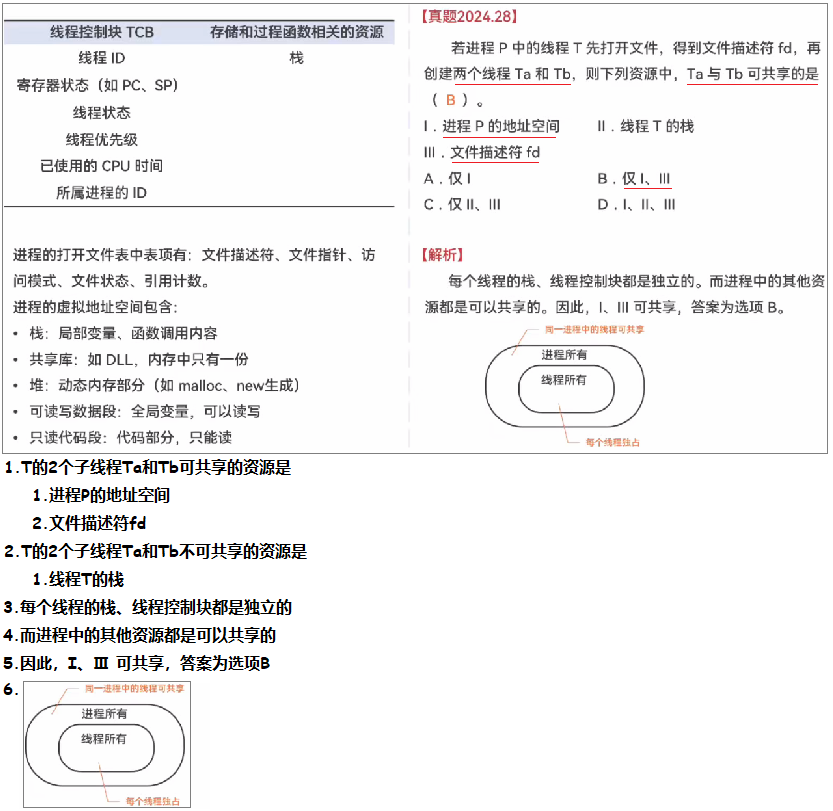
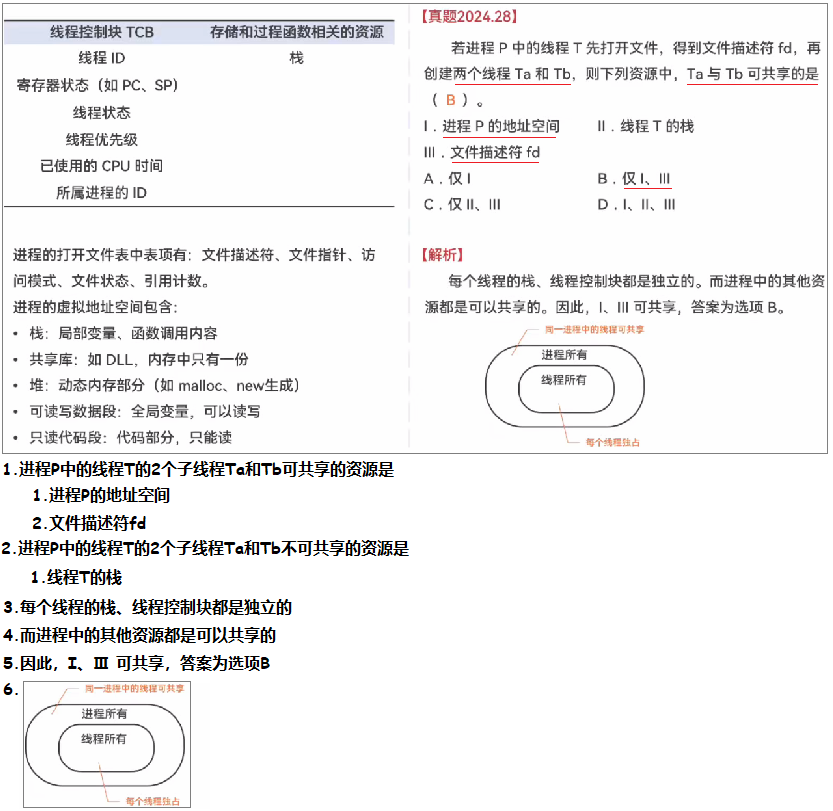
251213 D4 S

Changed region(s): [[0.0, 0.6473, 0.4994, 0.7398], [0.0, 0.5549, 0.4682, 0.5857]]

diff --git a/01 初试/01 408真题/01 24408 130‘ = 60‘+70’/01 单项选择题 60' = 22‘ + 18' + 20‘/03 操作系统 20' = 2' × 10/02 ×/08 单选 28 2‘ 线程 可共享/01 251213 D4/02 Doc.md b/01 初试/01 408真题/01 24408 130‘ = 60‘+70’/01 单项选择题 60' = 22‘ + 18' + 20‘/03 操作系统 20' = 2' × 10/02 ×/08 单选 28 2‘ 线程 可共享/01 251213 D4/02 Doc.md
@@ -6,4 +6,4 @@
 
 # 02 答案
 
-<img src="https://cvp.oss-cn-shanghai.aliyuncs.com/202512051444041.png" alt="image-20251205144423924" style="zoom:50%;" />
+<img src="https://cvp.oss-cn-shanghai.aliyuncs.com/202512131908544.png" alt="image-20251213190837414" style="zoom:50%;" />
